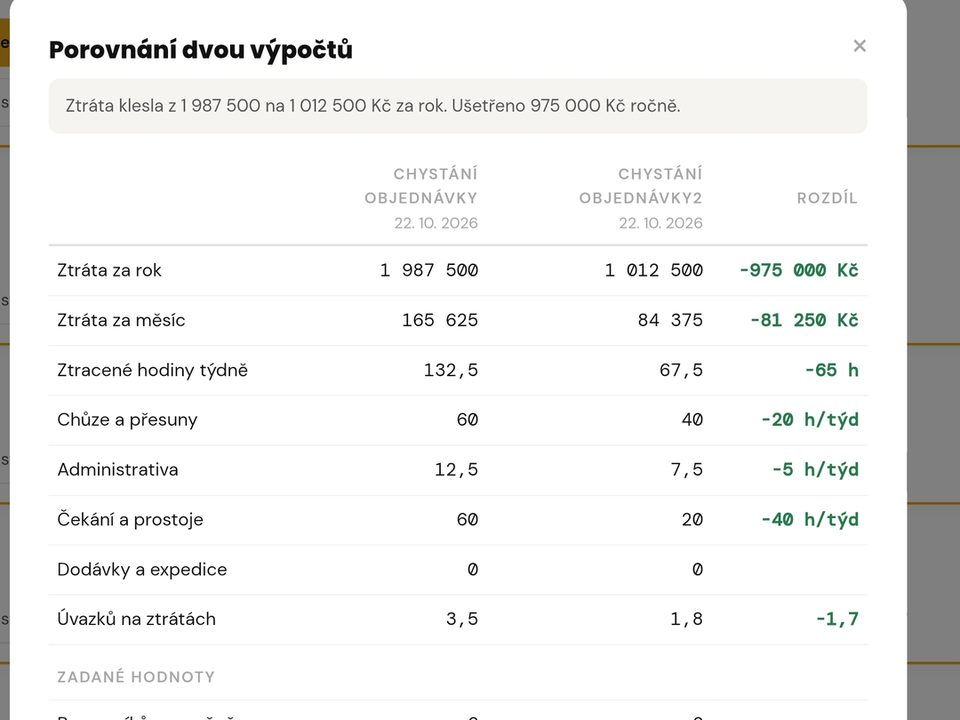
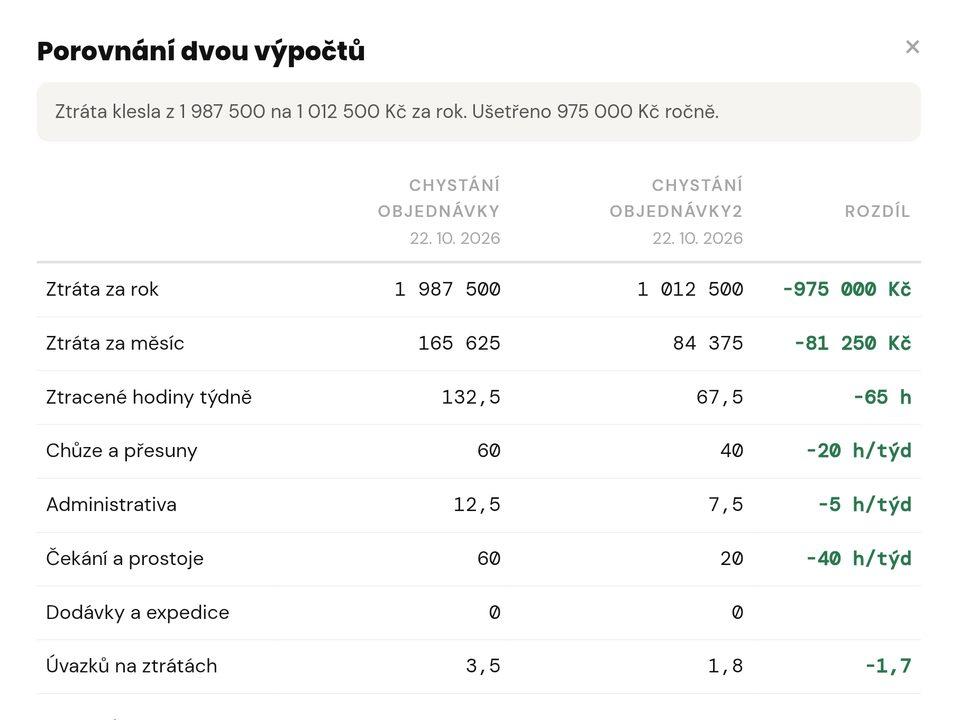
Krok 04: obrázek jen s oknem porovnání, bez pozadí stránky
Claude-Session: https://claude.ai/code/session_01LBsUBimv5w2kaEmM5bnhcf

diff --git a/index.html b/index.html
@@ -274,7 +274,7 @@ section { padding:52px 0; border-top:1px solid var(--border2); }
       </div>
       <div class="krok-karta">
         <picture><source srcset="obrazky/krok-4.webp" type="image/webp"><img src="obrazky/krok-4.jpg" width="960" height="720" alt="Tokva Pro: porovnání dvou výpočtů, ztráta klesla o 975 000 Kč ročně" loading="lazy"></picture>
-        <div class="krok-text"><span class="step-num">04 <span class="krok-pro">Tokva Pro</span></span><h3>Tokva porovná stav před změnou a po ní</h3><p>Ukáže, jestli se provoz opravdu zlepšil a kde má smysl pokračovat.</p></div>
+        <div class="krok-text"><span class="step-num">04 <span class="krok-pro">Tokva Pro</span></span><h3>Tokva porovná stav před změnou a po&nbsp;ní</h3><p>Ukáže, jestli se provoz opravdu zlepšil a kde má smysl pokračovat.</p></div>
       </div>
     </div>
     <p class="kroky-pozn">Obrázky jsou z appky Tokva s ukázkovými daty.</p>
